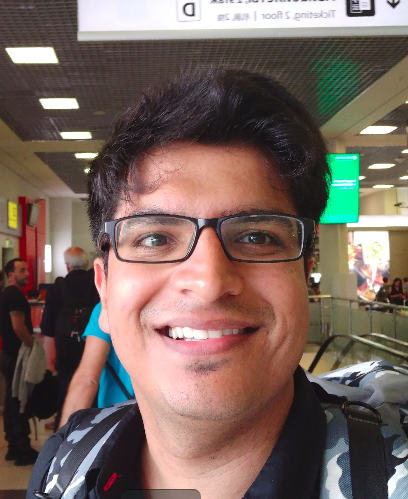
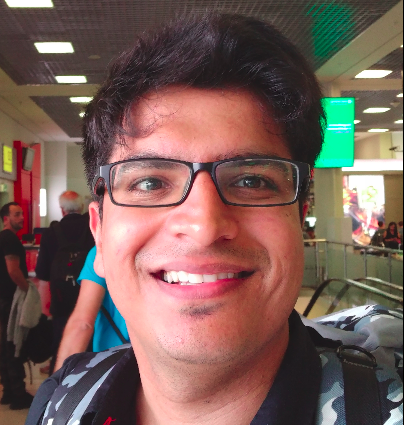
message

diff --git a/_members/profmitesh_siddhartharora.md b/_members/profmitesh_siddhartharora.md
@@ -1,7 +1,7 @@
 ---
 layout: member
 name: Siddharth Arora
-image: siddhartharora.jpg
+image: siddhartha.png
 designations: 
   - MS Scholar
 area:
